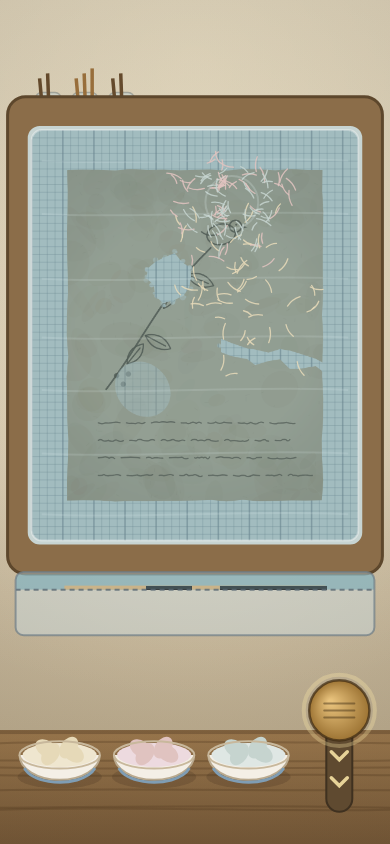
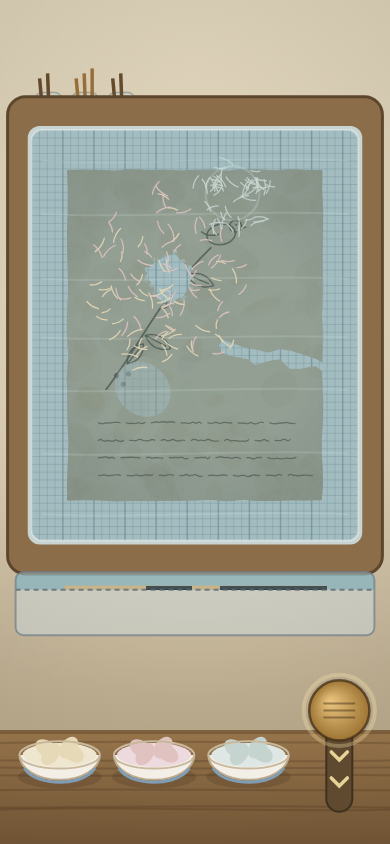
鉢の過剰注入を飽和させる（タップは常に成功、粒子数の暴走防止）
Claude-Session: https://claude.ai/code/session_01Use8KRgFAipSAgKVPL5DUS

diff --git a/src/fibers.js b/src/fibers.js
@@ -35,7 +35,11 @@ export class FiberSim {
   }
 
   pour(tx, ty, col) {
-    for (let i = 0; i < POUR_N; i++) {
+    // taps always succeed, but the vat saturates: past ~2.5x the needed
+    // pulp, each pour only adds a pinch (keeps particle count sane when a
+    // child hammers the bowls)
+    const n = this.poured >= this.need * 2.5 ? 8 : POUR_N;
+    for (let i = 0; i < n; i++) {
       const a = Math.random() * TAU, r = Math.random() * 0.10;
       this.fibers.push({
         x: clamp(tx + Math.cos(a) * r, 0.03, 0.97),
@@ -48,7 +52,7 @@ export class FiberSim {
         col, st: 0, tg: -1, ph: Math.random() * TAU,
       });
     }
-    this.poured += POUR_N;
+    this.poured += n;
   }
 
   // (dx,dy) = finger velocity in tank units per second
